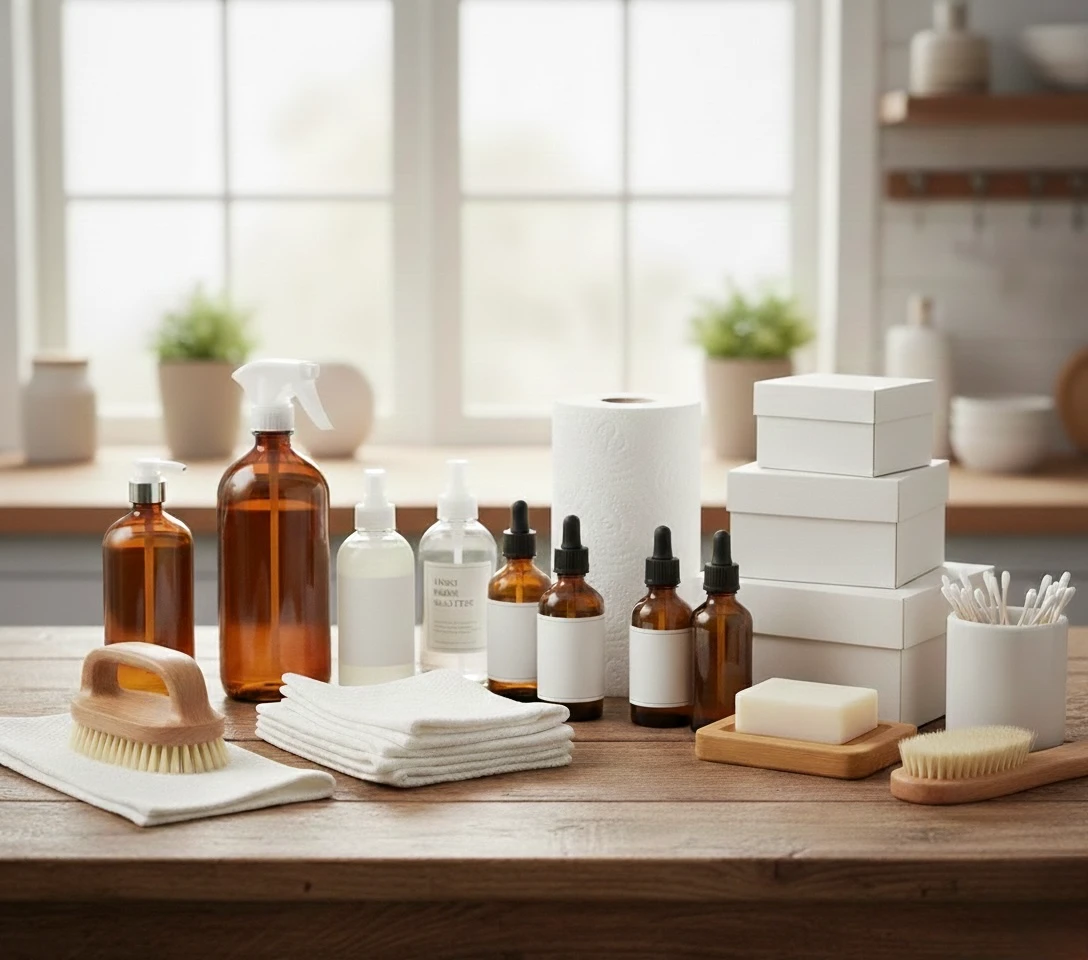
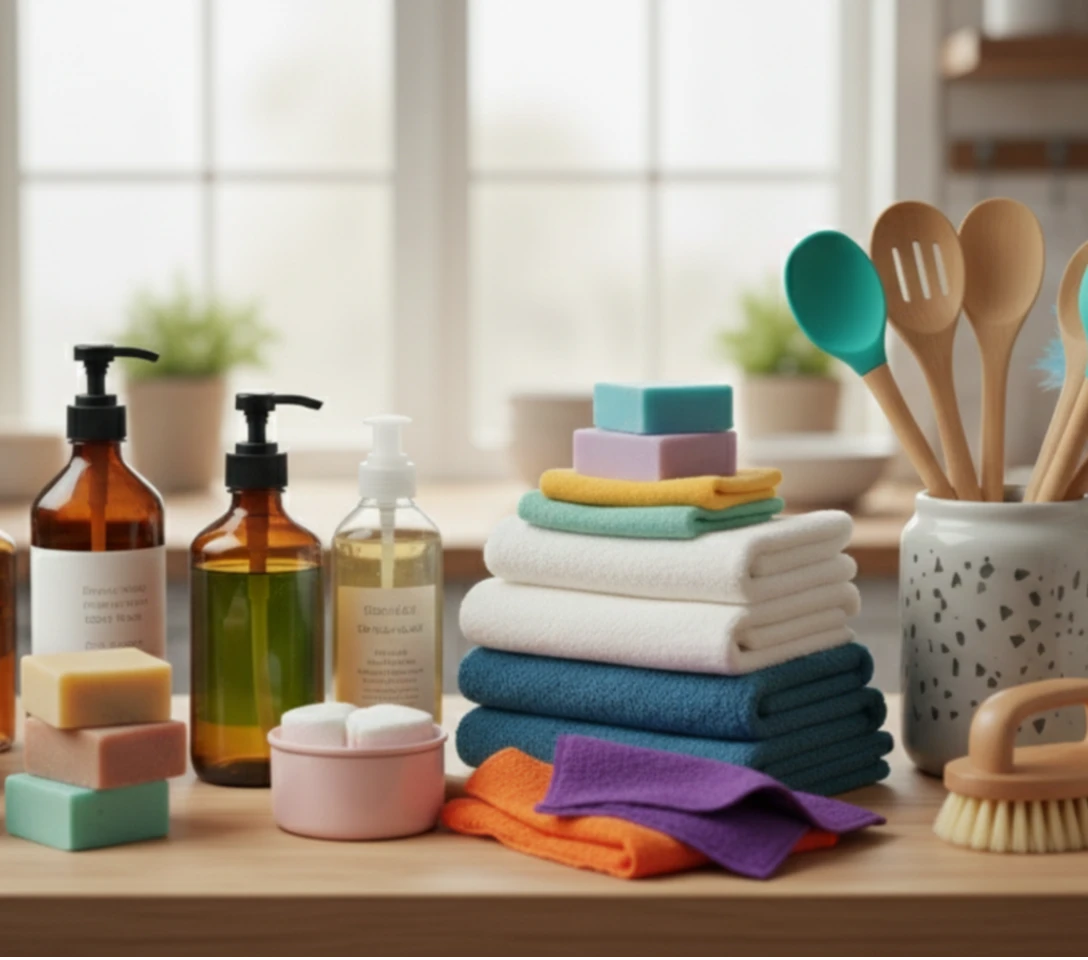
sitemap and google console configured

diff --git a/google793f4814b78d1f6d.html b/google793f4814b78d1f6d.html
@@ -1,0 +1,1 @@
+google-site-verification: google793f4814b78d1f6d.html
